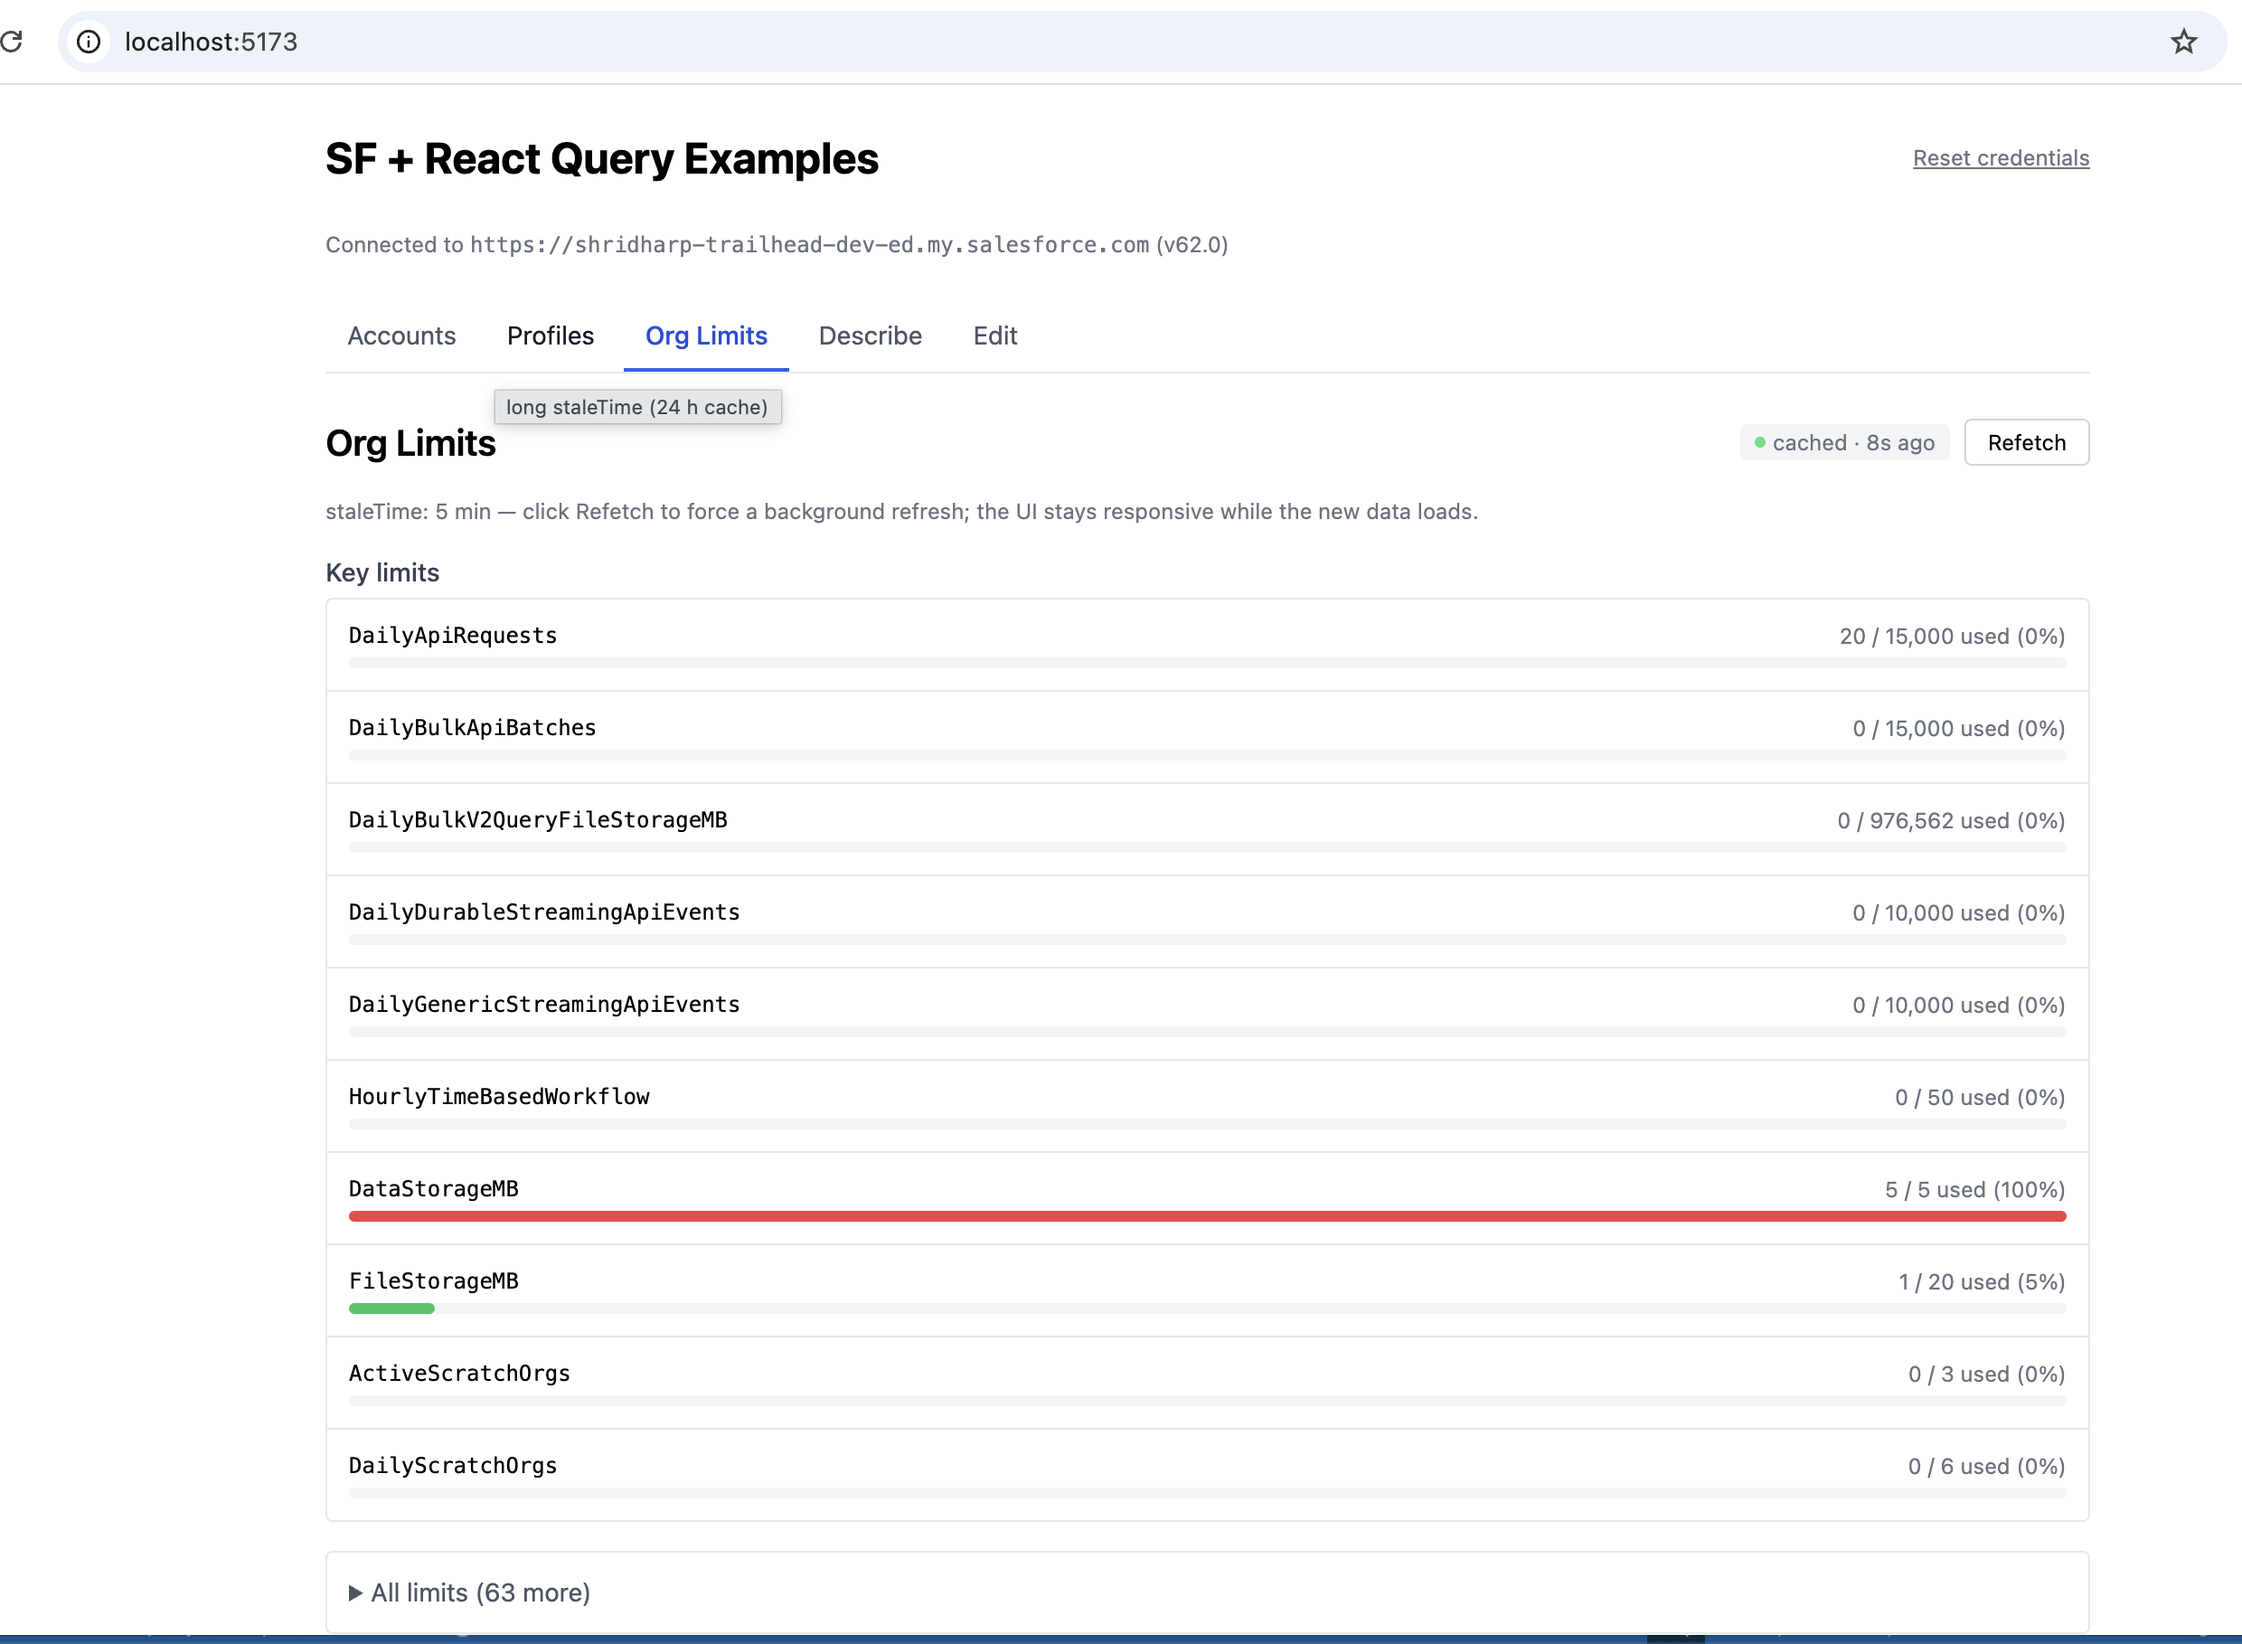
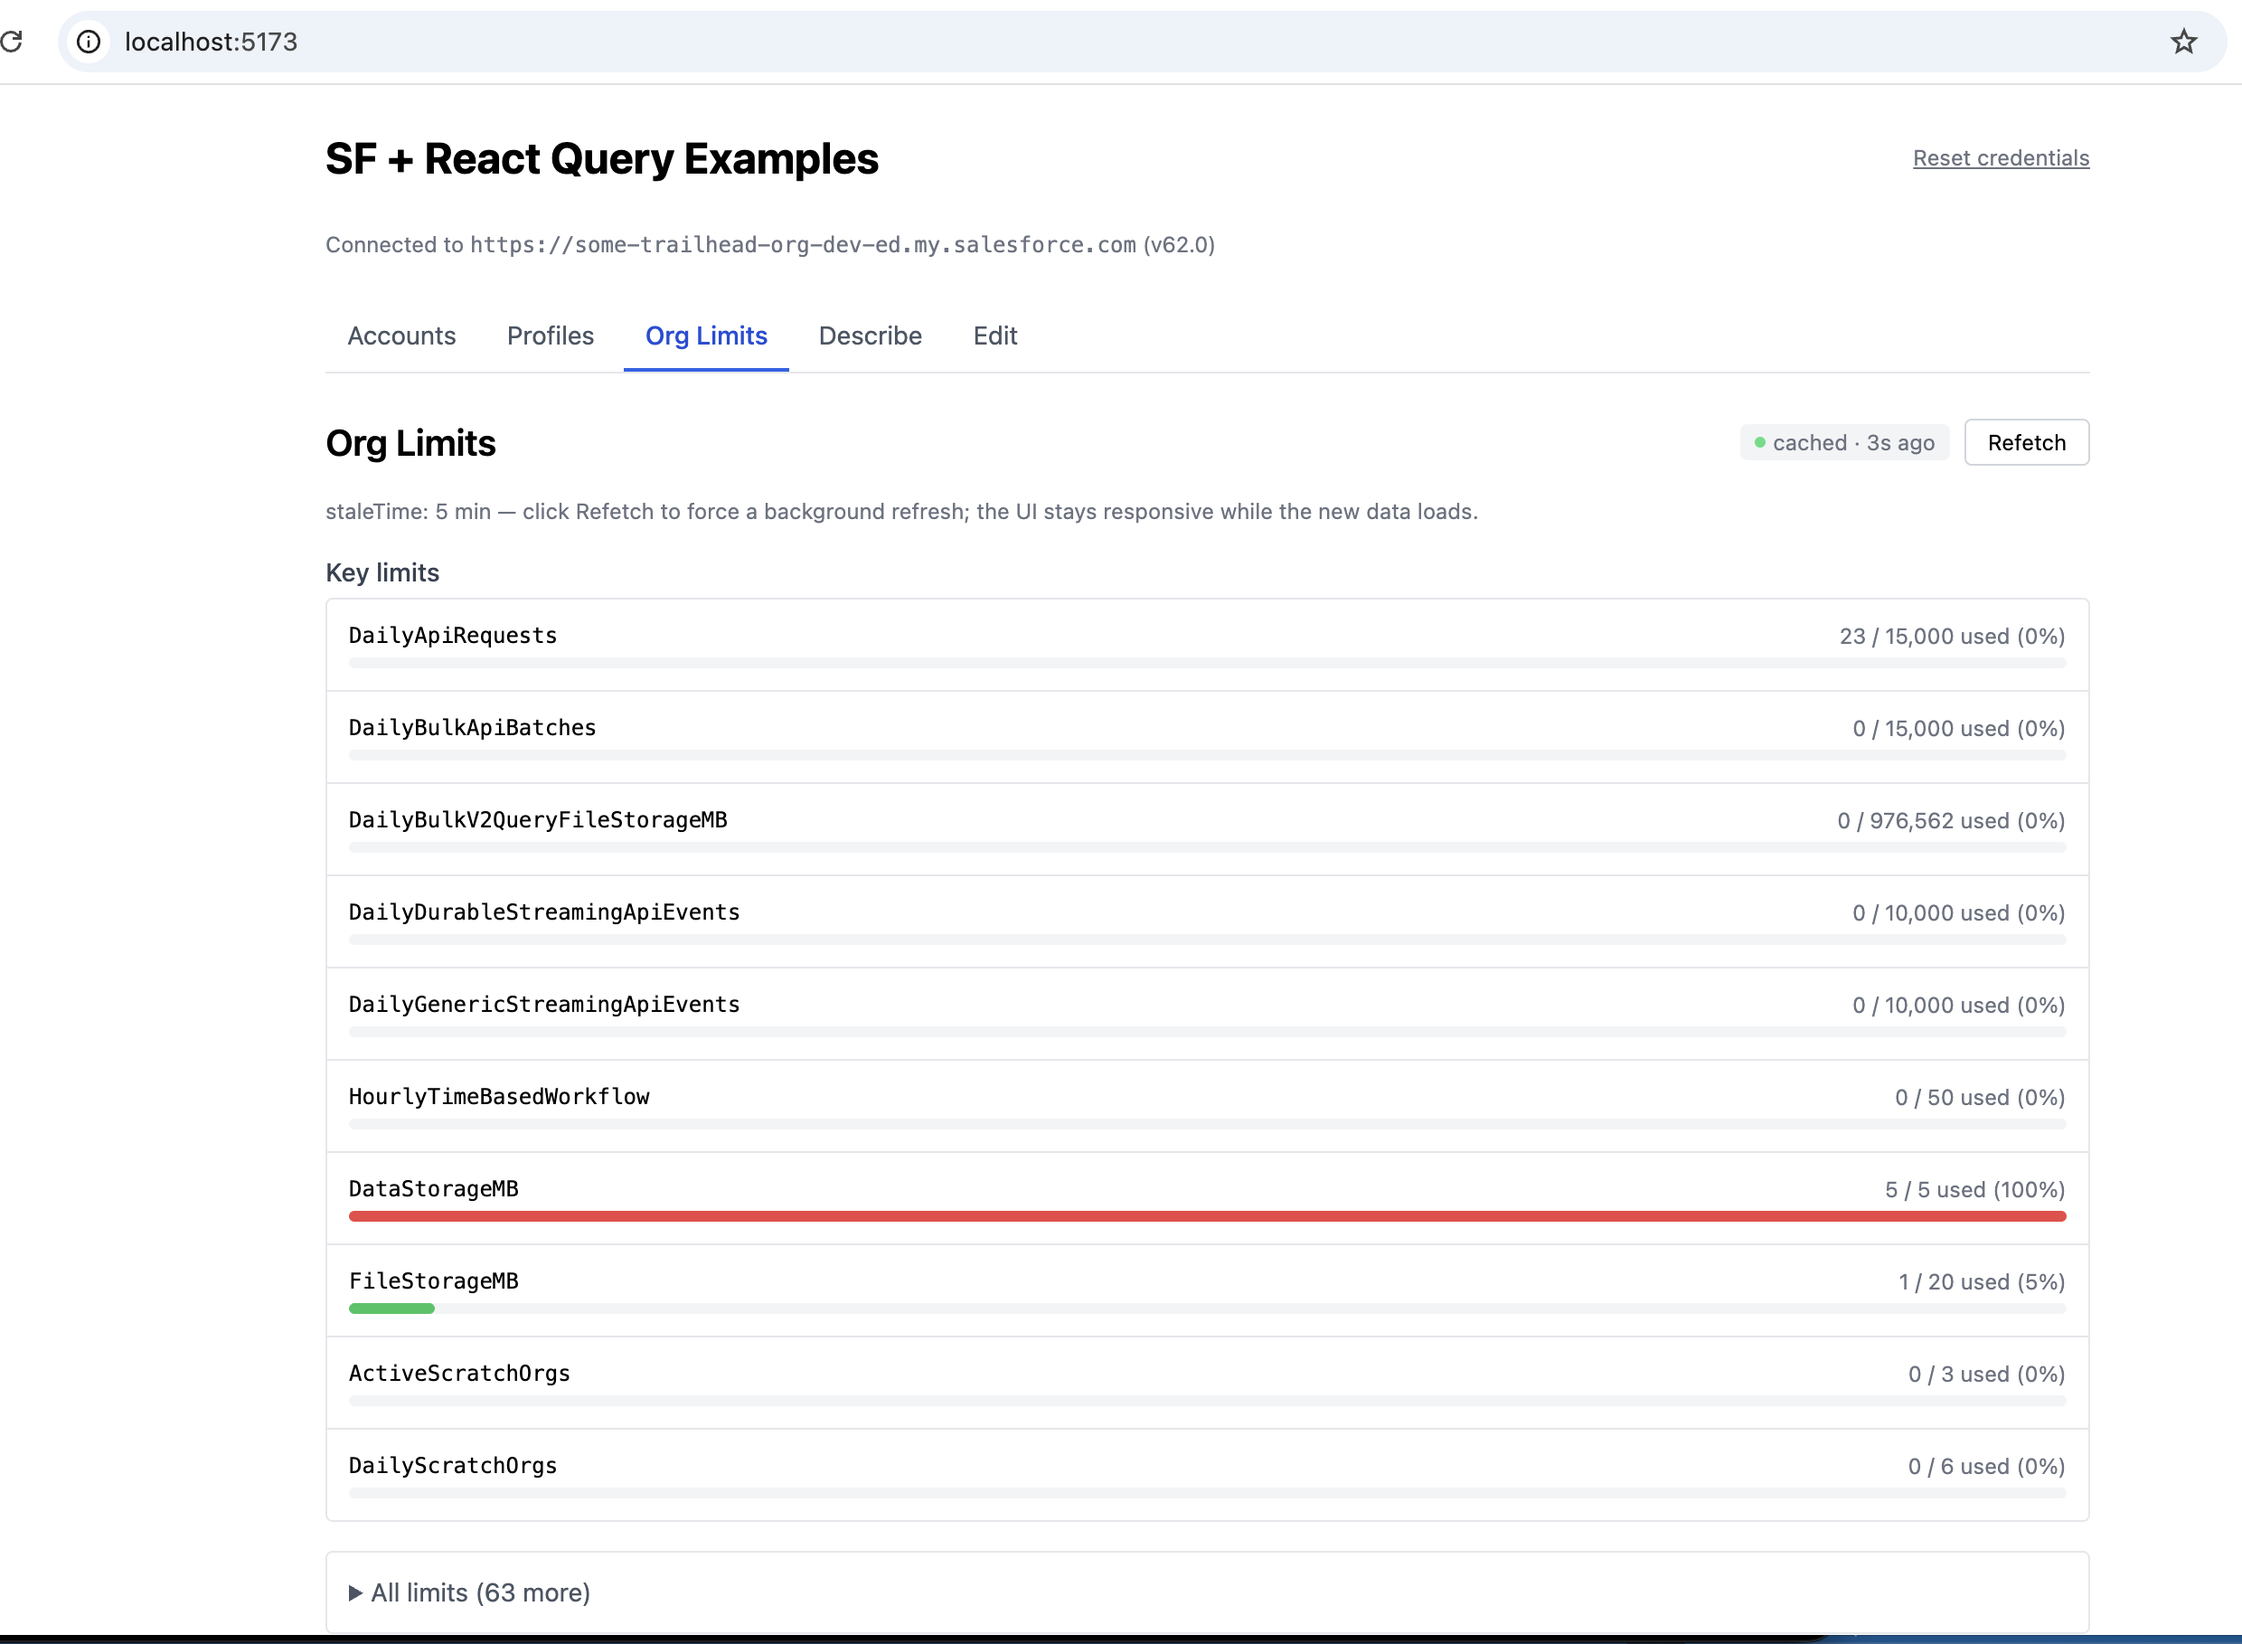
Improve README for SEO and clarity; replace screenshot org URL
- Rename to "Salesforce REST API — React Query / TanStack Query Hooks"
- Front-load TanStack Query v5 keywords in title and subtitle
- Add shields.io badges (license, React, TanStack Query, TypeScript, Bun)
- Retake screenshot with generic org URL

Changed region(s): [[0.0, 0.9857, 0.8383, 1.0], [0.2794, 0.1232, 0.5589, 0.154], [0.2173, 0.2156, 0.3726, 0.2772]]

diff --git a/README.md b/README.md
@@ -1,29 +1,35 @@
-# Salesforce React Query Examples
+# Salesforce REST API — React Query / TanStack Query Hooks
 
 ![Screenshot of the App](assets/screenshot.png)
 
-A structured set of React Query hooks and live demo patterns for hitting the Salesforce REST API directly from the browser. Copy any hook into your own app or use this as a seed repo to build from.
+[![License: MIT](https://img.shields.io/badge/License-MIT-blue.svg)](LICENSE)
+[![React](https://img.shields.io/badge/React-18-61dafb?logo=react)](https://react.dev)
+[![TanStack Query](https://img.shields.io/badge/TanStack_Query-v5-ff4154?logo=reactquery)](https://tanstack.com/query/v5)
+[![TypeScript](https://img.shields.io/badge/TypeScript-5-3178c6?logo=typescript)](https://www.typescriptlang.org)
+[![Bun](https://img.shields.io/badge/Bun-latest-fbf0df?logo=bun)](https://bun.sh)
 
-Stack: **Bun** · Vite · React · TanStack Query · Zod · TypeScript.
+**TanStack Query v5 hooks for the Salesforce REST API** — SOQL pagination, SObject mutations with optimistic updates, describe, and limits. Copy any hook into your own app, or use this as a starter template.
+
+Stack: **Bun** · Vite · React 18 · TanStack Query v5 · Zod · TypeScript · Tailwind CSS.
 
 > [!WARNING]
-> **This is a learning and code-organisation demo — not a production pattern.**
+> **Learning and code-organisation demo — not a production pattern.**
 >
-> - The UI accepts a plain-text access token and holds it in page state. This is **not safe** for real users or sensitive orgs.
-> - The dev server uses the **Vite dev proxy** to work around Salesforce's CORS restrictions. This proxy does not exist in a production build — the app will not work as-is when deployed.
+> - The UI accepts a plain-text access token held in page state. **Not safe** for real users or sensitive orgs.
+> - The dev server uses a **Vite proxy** to work around Salesforce's CORS restrictions. This proxy does not exist in a production build — the app will not work as-is when deployed.
 >
-> For a production app you need a proper OAuth 2.0 PKCE flow with a backend that handles token exchange and refresh securely. See the companion template: **[salesforce-oauth-pkce-hono-bun](https://github.com/ShriPunta/salesforce-oauth-pkce-hono-bun)**.
+> For a production app you need OAuth 2.0 PKCE with a backend that handles token exchange and refresh. See the companion template: **[salesforce-oauth-pkce-hono-bun](https://github.com/ShriPunta/salesforce-oauth-pkce-hono-bun)**.
 
-## Inspiration
+## Why this exists
 
-While building [SFDevTools](https://www.sfdevtools.com), I leaned heavily on React Query — it made async Salesforce calls dramatically simpler and the app noticeably snappier. I couldn't find any existing hook libraries or seed repos targeting the Salesforce REST API, so I built this: a minimal, copy-paste-friendly reference for anyone learning React Query with a well-structured API like Salesforce's, or anyone who wants a head start on a real app.
+While building [SFDevTools](https://www.sfdevtools.com) I leaned heavily on React Query — it made async Salesforce calls dramatically simpler and the app noticeably snappier. I couldn't find any existing hook libraries or seed repos targeting the Salesforce REST API, so I built this: a minimal, copy-paste-friendly reference for anyone learning TanStack Query against a well-structured REST API, or anyone who wants a head start on a real Salesforce app.
 
-## What it provides
+## What it demonstrates
 
-- **Live cache visualisation** — every tab shows a `CacheBadge` that indicates whether data came from cache or a fresh network request, making React Query's stale-while-revalidate behaviour visible without opening DevTools.
+- **Live cache visualisation** — every tab shows a `CacheBadge` indicating whether data came from cache or a fresh network request, making React Query's stale-while-revalidate behaviour visible without opening DevTools.
 - **Generic base hooks** — one reusable hook per API shape (`useSOQLInfiniteQuery`, `useDescribeQuery`, `useUpdateSObjectMutation`); specific hooks are thin wrappers that pin the query and set an appropriate `staleTime`.
 - **Full mutation example** — optimistic PATCH with automatic rollback on error.
-- **Zero CORS config needed** — the dev server proxies all Salesforce requests, so you can point the app at any org with just a session token.
+- **Zero CORS config** — the dev server proxies all Salesforce requests, so you can point the app at any org with just a session token.
 
 ## Demos
 
@@ -47,7 +53,7 @@ Open the app and paste:
 1. **Instance URL** — e.g. `https://yourorg.my.salesforce.com`
 2. **Session token** — see below
 
-Credentials live in `sessionStorage` only.
+Credentials are stored in `sessionStorage` only and never leave the browser outside of proxied API calls.
 
 ## Getting a session token
 
@@ -59,7 +65,7 @@ Use the `Access Token` and `Instance Url` it prints. Tokens expire — re-run wh
 
 ## CORS
 
-The dev server includes a dynamic proxy. All Salesforce requests are forwarded server-side, so **no CORS configuration is needed in your org** during local development. The proxy reads the `X-SF-Instance` header from each request to determine the target org — the instance URL you enter in the UI is forwarded automatically.
+The dev server includes a dynamic proxy. All `/sf-proxy/*` requests are forwarded server-side using the `X-SF-Instance` header to determine the target org — **no CORS configuration is needed in your Salesforce org** during local development.
 
 In production you would either keep a backend proxy or allowlist your origin in **Setup → CORS**.
 
@@ -84,7 +90,7 @@ import { SFProvider } from "./provider";
 ```
 src/hooks/
   soql/
-    useSOQLInfiniteQuery.ts     ← base: any SOQL query with pagination
+    useSOQLInfiniteQuery.ts     ← base: any SOQL query with cursor pagination
     useAccountsQuery.ts         ← specific: Account records (staleTime 5 m)
     useProfilesQuery.ts         ← specific: Profile records (staleTime 24 h)
   api/
